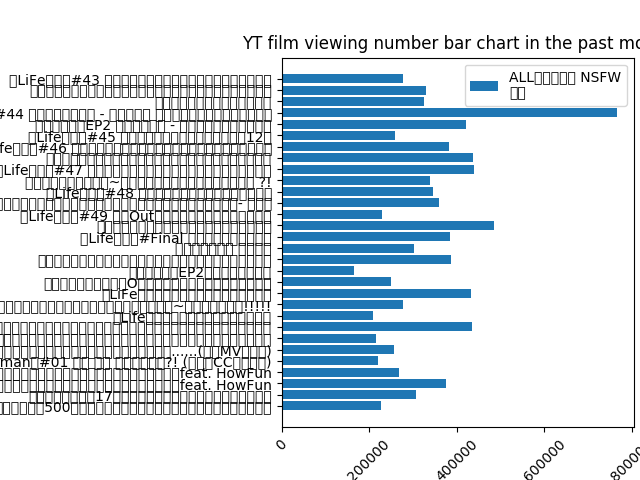
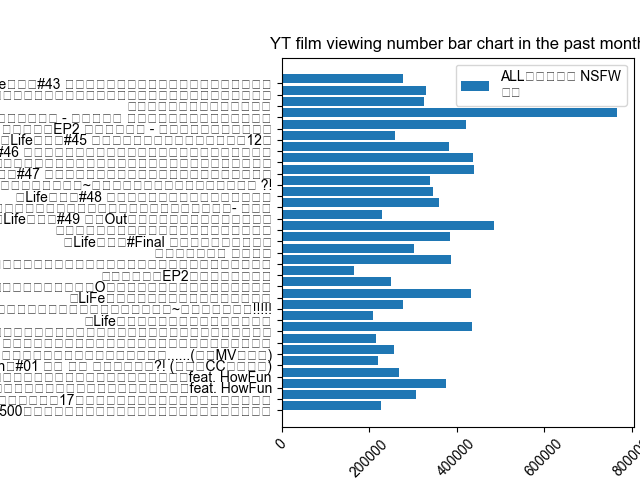
SHup20191111 Version = 4no msg!

diff --git a/yt.py b/yt.py
@@ -101,9 +101,9 @@ print("==========================")
 print(counterforsel123-1)
 print(pppcounter)
 
-#matplotlib.rc('font', family='Arial')
+matplotlib.rc('font', family='Arial')
 
-plt.barh(sel23, plist,label =ttltll, align = "center")
+plt.barh(sel23, plist,label =ttltll, align = "edge")
 plt.xticks(rotation=45)
 
 plt.legend() #要使用label要加這行
